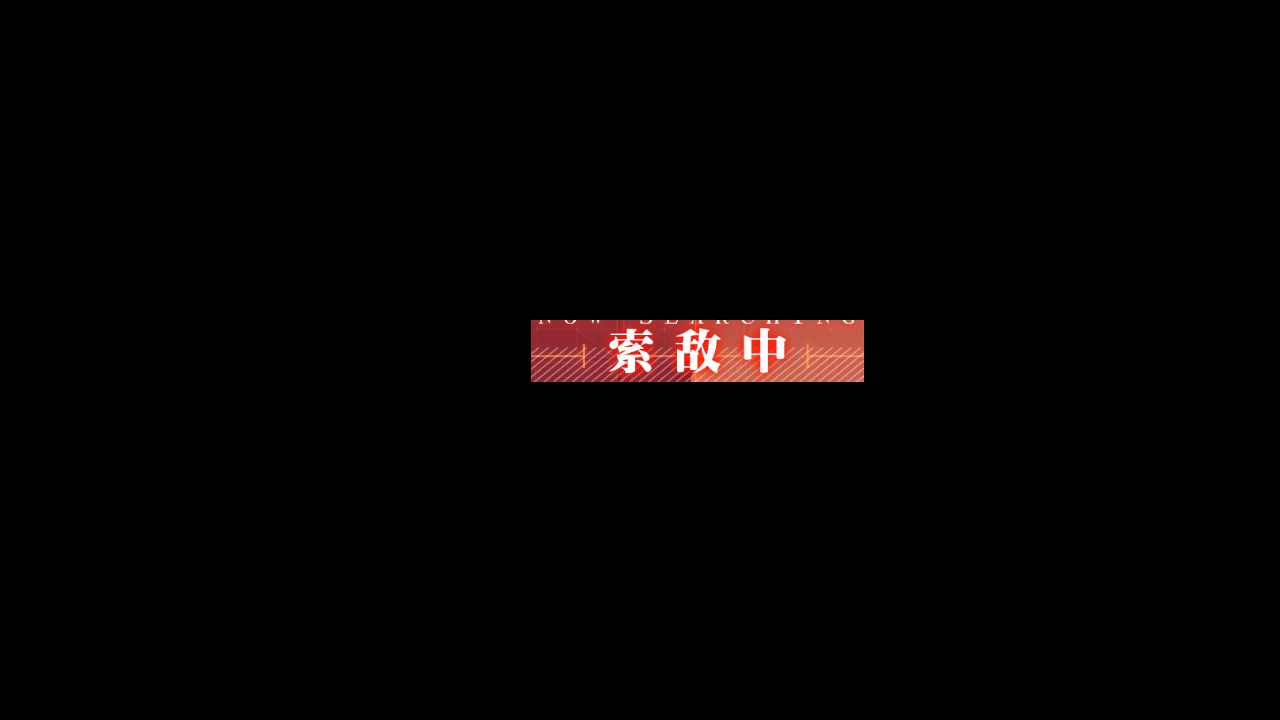
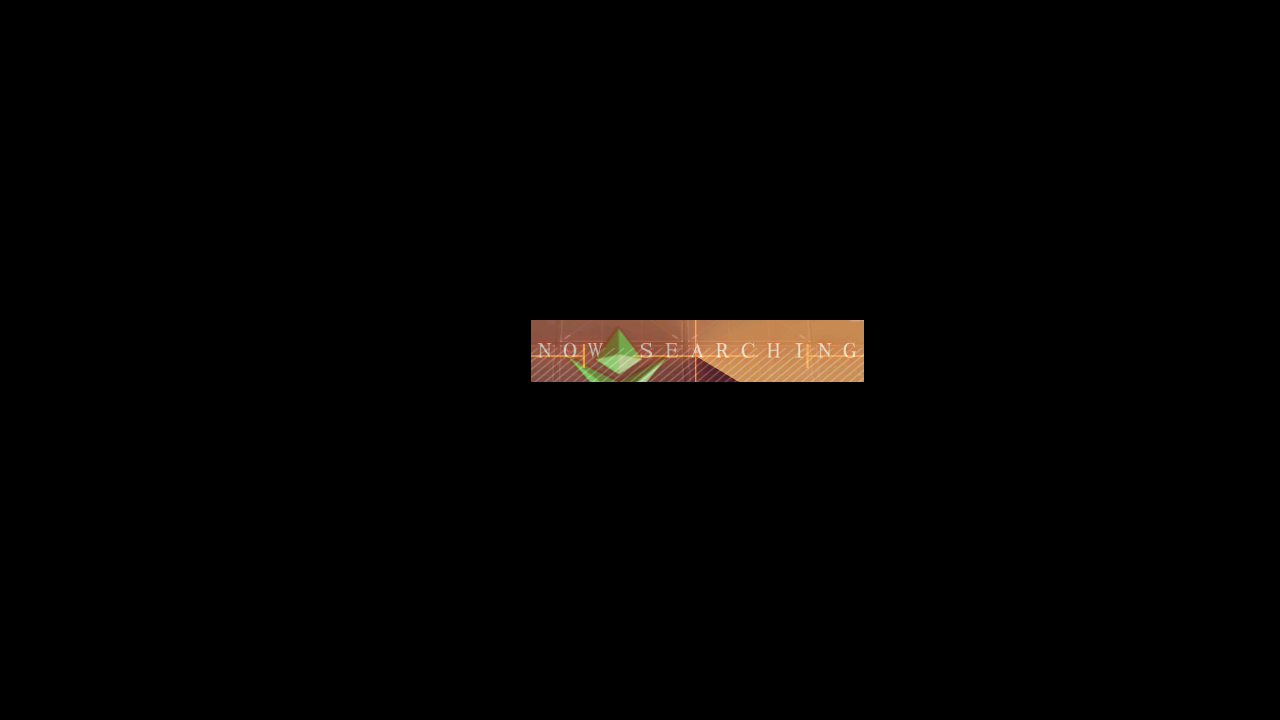
Asset: [EN] Updated MAP_ENEMY_SEARCHING

Changed region(s): [[0.4062, 0.4278, 0.6875, 0.55]]

diff --git a/module/handler/assets.py b/module/handler/assets.py
@@ -30,7 +30,7 @@ MAP_AMBUSH = Button(area={'cn': (261, 433, 1280, 449), 'en': (261, 433, 1280, 44
 MAP_AMBUSH_EVADE = Button(area={'cn': (325, 393, 1280, 395), 'en': (325, 393, 1280, 395), 'jp': (325, 393, 1280, 395)}, color={'cn': (255, 255, 255), 'en': (255, 255, 255), 'jp': (255, 255, 255)}, button={'cn': (979, 444, 1152, 502), 'en': (978, 443, 1153, 503), 'jp': (979, 444, 1152, 502)}, file={'cn': './assets/cn/handler/MAP_AMBUSH_EVADE.png', 'en': './assets/en/handler/MAP_AMBUSH_EVADE.png', 'jp': './assets/jp/handler/MAP_AMBUSH_EVADE.png'})
 MAP_BUFF = Button(area={'cn': (145, 115, 437, 159), 'en': (145, 115, 437, 159), 'jp': (145, 115, 437, 159)}, color={'cn': (103, 118, 118), 'en': (103, 118, 118), 'jp': (103, 118, 118)}, button={'cn': (145, 115, 437, 159), 'en': (145, 115, 437, 159), 'jp': (145, 115, 437, 159)}, file={'cn': './assets/cn/handler/MAP_BUFF.png', 'en': './assets/en/handler/MAP_BUFF.png', 'jp': './assets/jp/handler/MAP_BUFF.png'})
 MAP_CLEAR_PERCENTAGE = Button(area={'cn': (626, 185, 970, 190), 'en': (626, 185, 970, 190), 'jp': (626, 185, 970, 190)}, color={'cn': (245, 213, 88), 'en': (245, 213, 88), 'jp': (245, 213, 88)}, button={'cn': (626, 185, 970, 190), 'en': (626, 185, 970, 190), 'jp': (626, 185, 970, 190)}, file={'cn': './assets/cn/handler/MAP_CLEAR_PERCENTAGE.png', 'en': './assets/en/handler/MAP_CLEAR_PERCENTAGE.png', 'jp': './assets/jp/handler/MAP_CLEAR_PERCENTAGE.png'})
-MAP_ENEMY_SEARCHING = Button(area={'cn': (531, 320, 864, 382), 'en': (531, 320, 864, 382), 'jp': (608, 325, 785, 368)}, color={'cn': (200, 99, 91), 'en': (200, 99, 91), 'jp': (242, 136, 130)}, button={'cn': (531, 320, 864, 382), 'en': (531, 320, 864, 382), 'jp': (608, 325, 785, 368)}, file={'cn': './assets/cn/handler/MAP_ENEMY_SEARCHING.png', 'en': './assets/en/handler/MAP_ENEMY_SEARCHING.png', 'jp': './assets/jp/handler/MAP_ENEMY_SEARCHING.png'})
+MAP_ENEMY_SEARCHING = Button(area={'cn': (531, 320, 864, 382), 'en': (531, 320, 864, 382), 'jp': (608, 325, 785, 368)}, color={'cn': (200, 99, 91), 'en': (174, 122, 83), 'jp': (242, 136, 130)}, button={'cn': (531, 320, 864, 382), 'en': (531, 320, 864, 382), 'jp': (608, 325, 785, 368)}, file={'cn': './assets/cn/handler/MAP_ENEMY_SEARCHING.png', 'en': './assets/en/handler/MAP_ENEMY_SEARCHING.png', 'jp': './assets/jp/handler/MAP_ENEMY_SEARCHING.png'})
 MAP_GREEN = Button(area={'cn': (195, 260, 349, 292), 'en': (201, 259, 341, 290), 'jp': (242, 265, 323, 287)}, color={'cn': (125, 190, 84), 'en': (104, 207, 104), 'jp': (143, 196, 109)}, button={'cn': (195, 260, 349, 292), 'en': (201, 259, 341, 290), 'jp': (242, 265, 323, 287)}, file={'cn': './assets/cn/handler/MAP_GREEN.png', 'en': './assets/en/handler/MAP_GREEN.png', 'jp': './assets/jp/handler/MAP_GREEN.png'})
 MAP_STAR_1 = Button(area={'cn': (245, 377, 254, 384), 'en': (232, 381, 240, 389), 'jp': (239, 377, 244, 387)}, color={'cn': (251, 233, 143), 'en': (252, 234, 146), 'jp': (230, 203, 119)}, button={'cn': (245, 377, 254, 384), 'en': (232, 381, 240, 389), 'jp': (239, 377, 244, 387)}, file={'cn': './assets/cn/handler/MAP_STAR_1.png', 'en': './assets/en/handler/MAP_STAR_1.png', 'jp': './assets/jp/handler/MAP_STAR_1.png'})
 MAP_STAR_2 = Button(area={'cn': (532, 377, 540, 384), 'en': (518, 382, 526, 389), 'jp': (526, 377, 531, 387)}, color={'cn': (251, 233, 144), 'en': (252, 234, 144), 'jp': (229, 204, 120)}, button={'cn': (532, 377, 540, 384), 'en': (518, 382, 526, 389), 'jp': (526, 377, 531, 387)}, file={'cn': './assets/cn/handler/MAP_STAR_2.png', 'en': './assets/en/handler/MAP_STAR_2.png', 'jp': './assets/jp/handler/MAP_STAR_2.png'})

diff --git a/module/handler/enemy_searching.py b/module/handler/enemy_searching.py
@@ -66,7 +66,7 @@ class EnemySearchingHandler(InfoHandler):
                 if appeared:
                     self.handle_enemy_flashing()
                     self.device.sleep(0.3)
-                    logger.info('In map.')
+                    logger.info('Enemy searching appeared.')
                     break
                 self.enemy_searching_color_initial()
             if timeout.reached():
